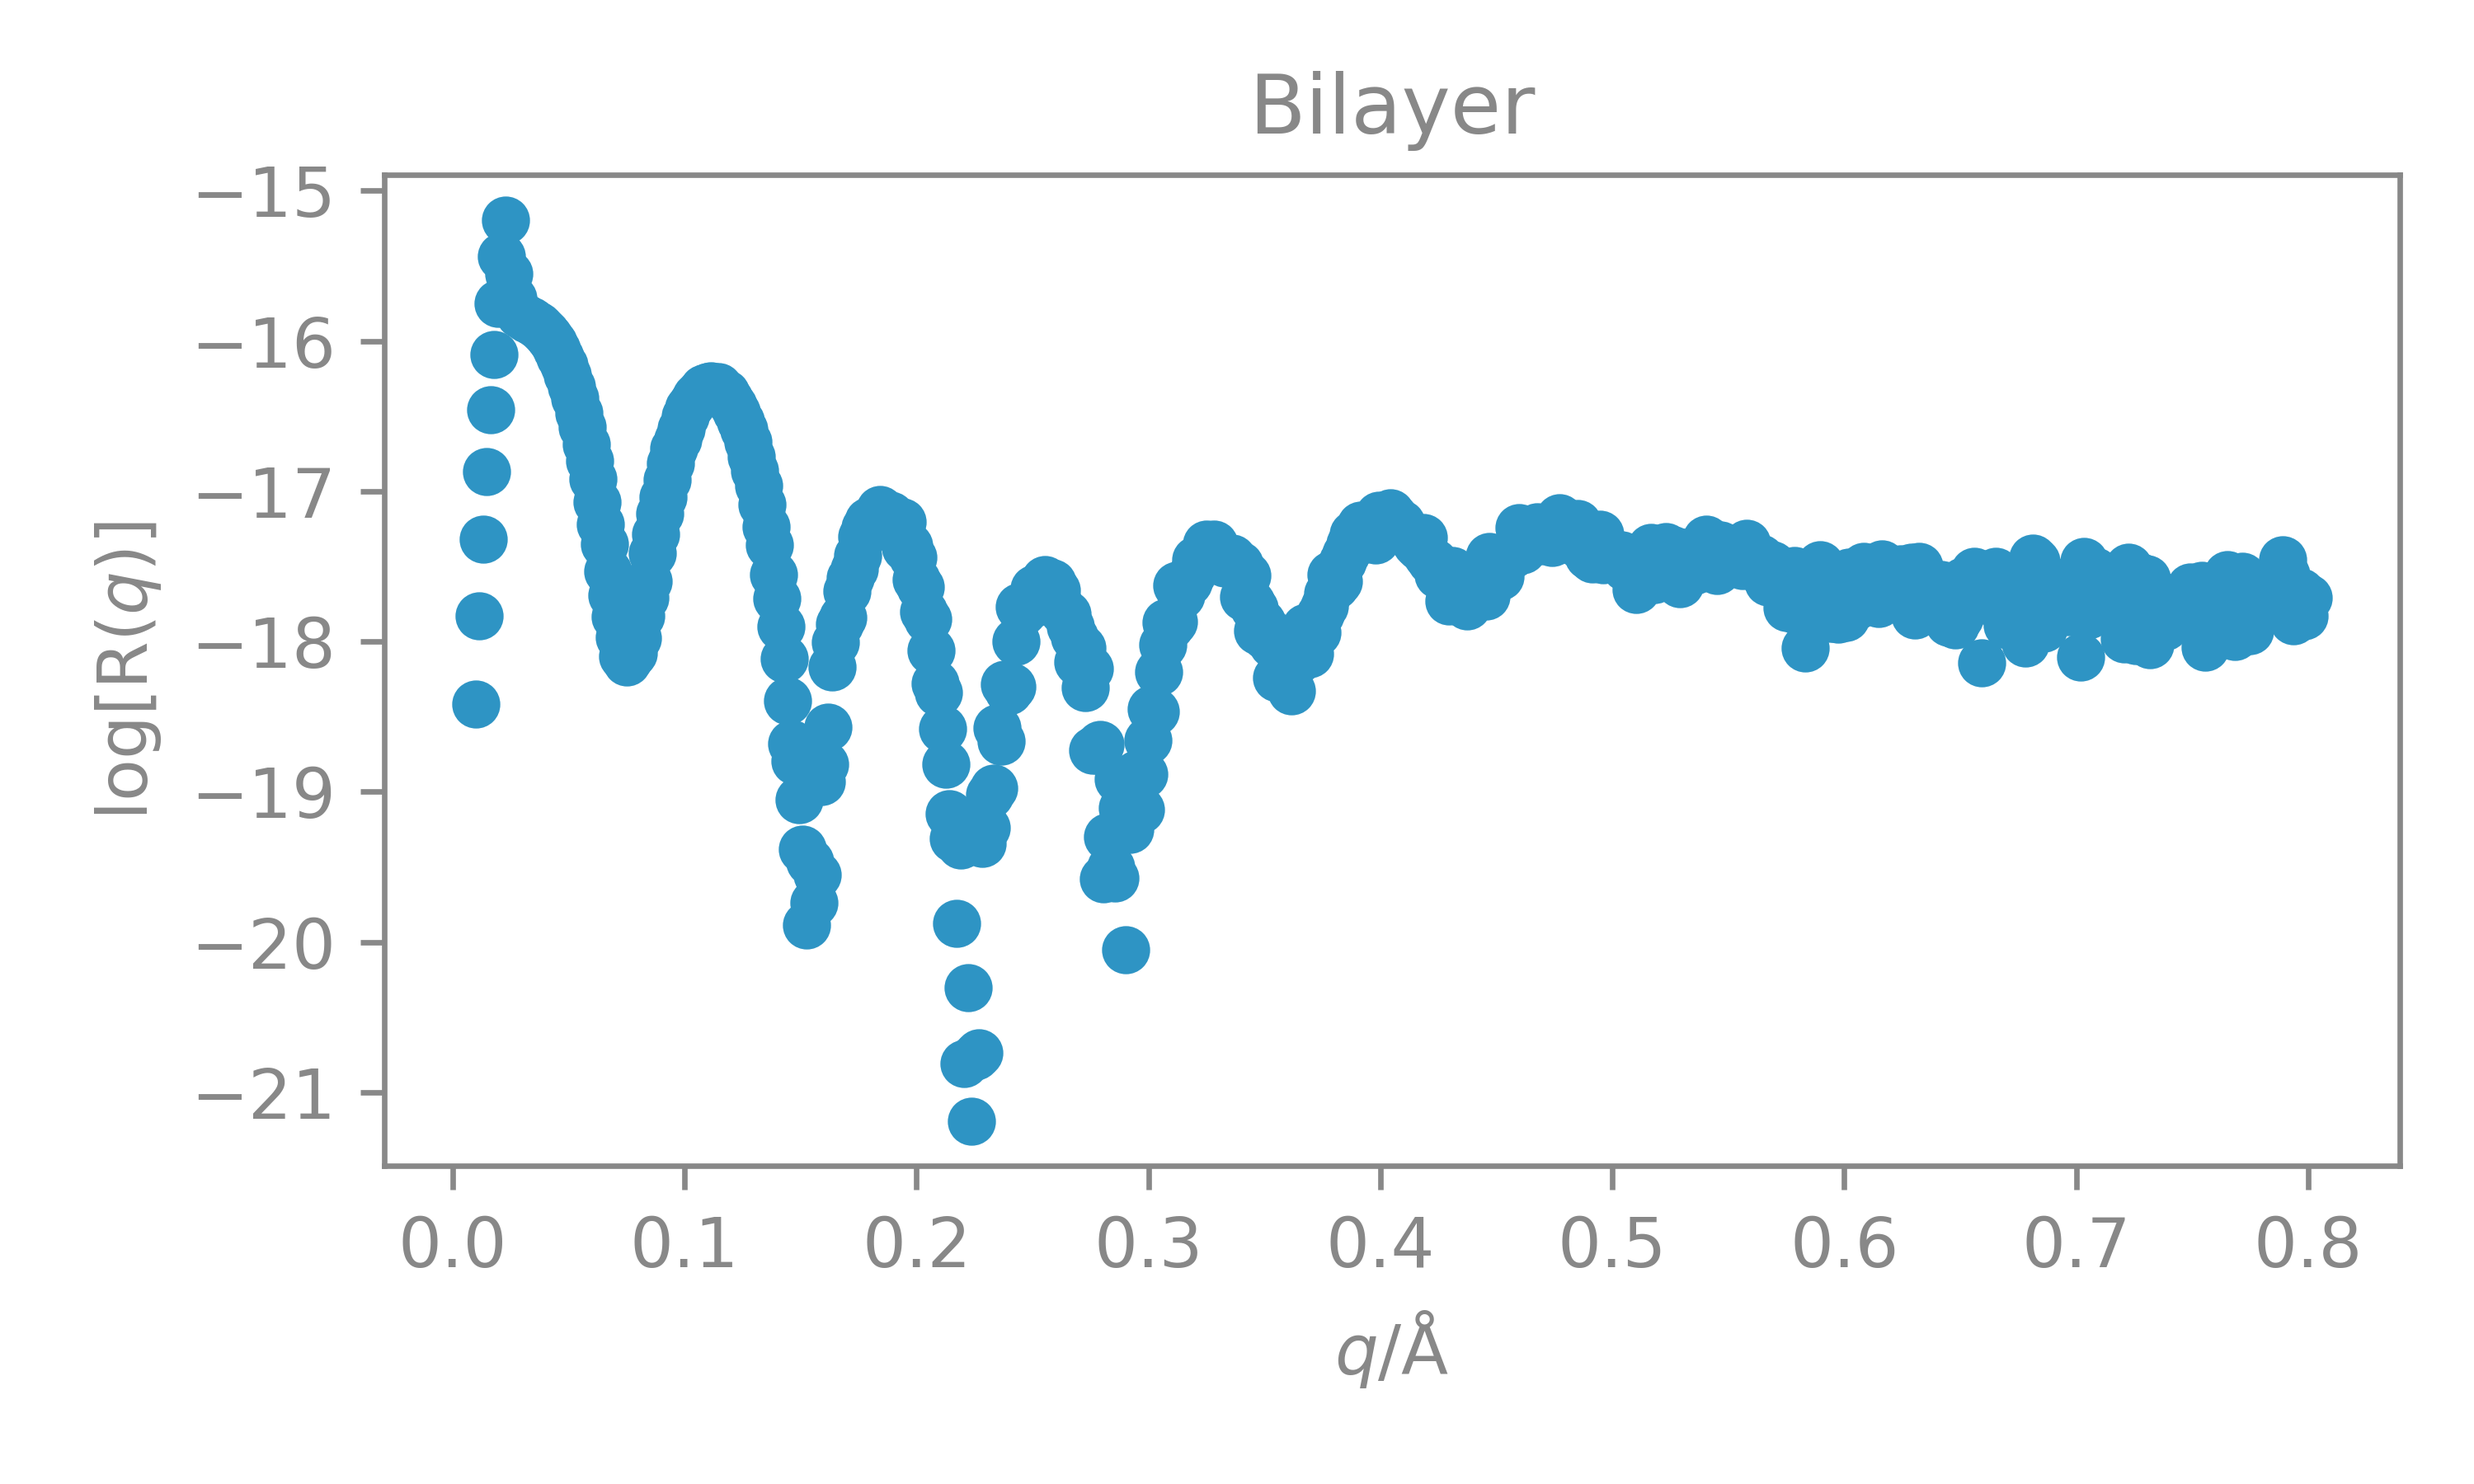
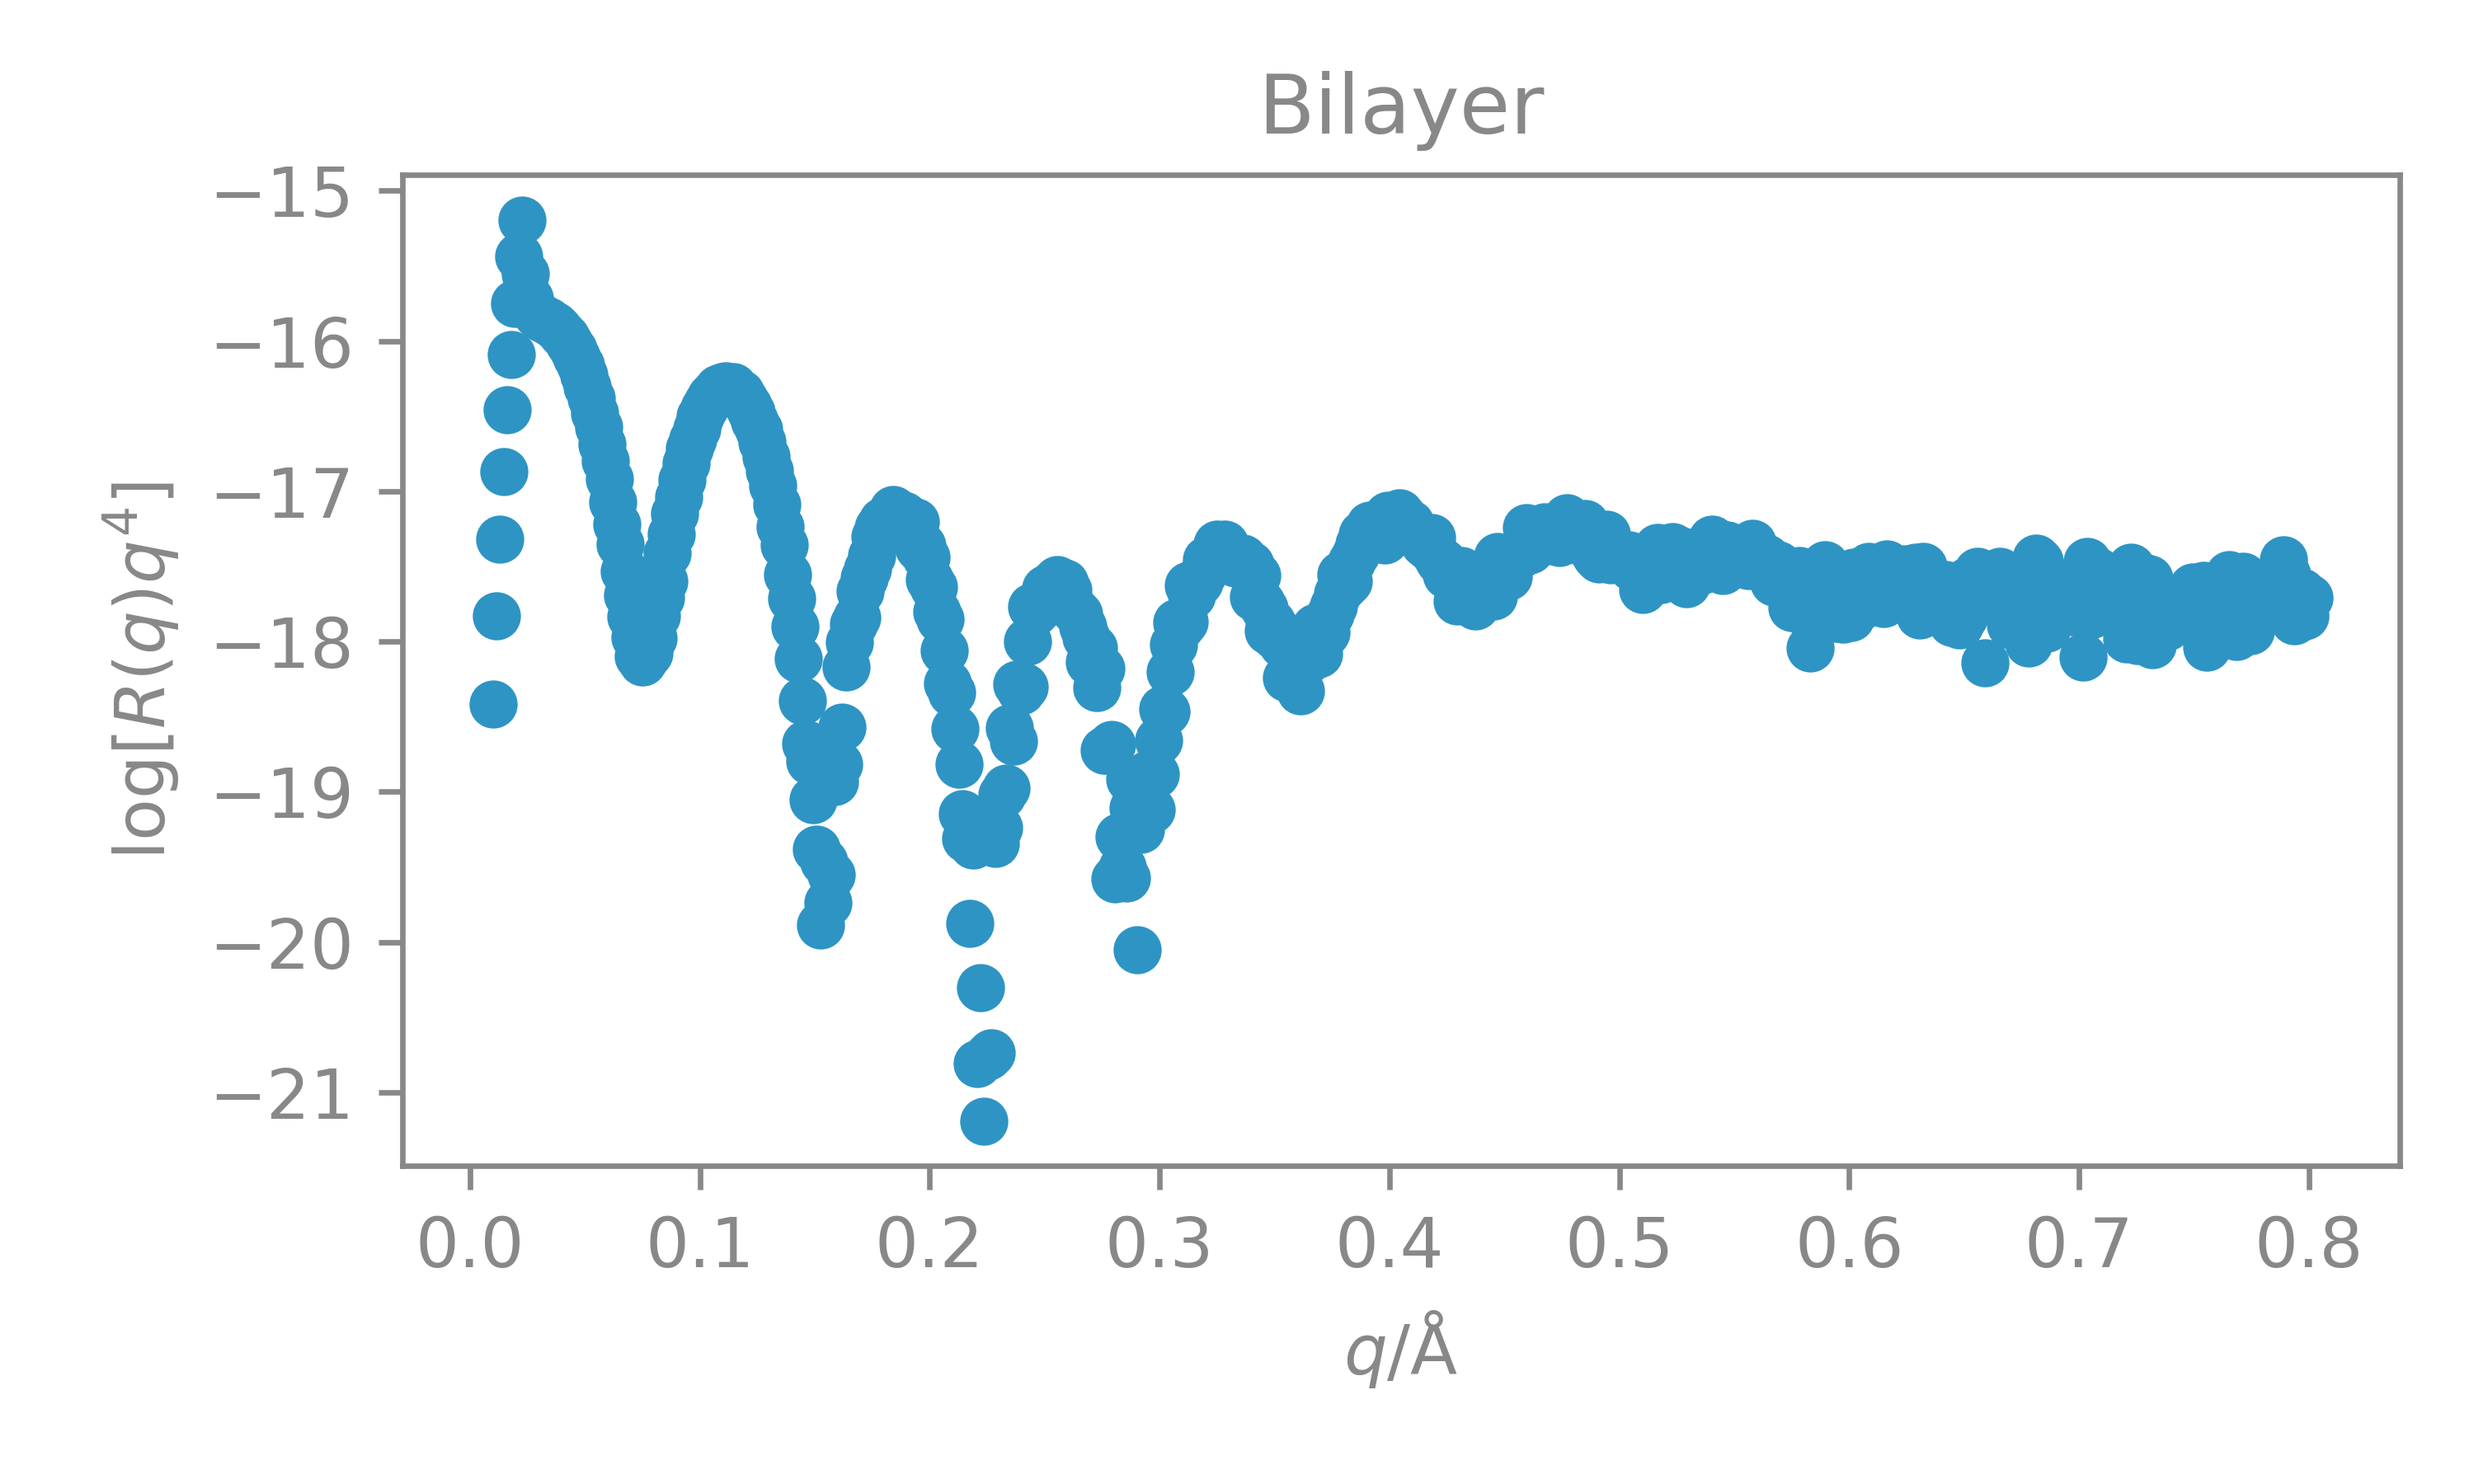
fixs

diff --git a/talks/m4colloids2019/index.html b/talks/m4colloids2019/index.html
@@ -63,8 +63,9 @@
 						<hr>
 						<div class="name"><a href="https://armccluskey.com"><u>Andrew R. McCluskey,</u><sup><small>a,b</small></sup></a> Tim Snow,<sup><small>a,c</small></sup> & Jos F. K. Cooper<sup><small>d</small></sup></div>
 						<div class="label">a. Diamond Light Source; b. University of Bath;<br>c. University of Bristol; d. ISIS Neutron and Muon Source</div>
-						<div class="label"><a href="mailto:andrew.mccluskey@diamond.ac.uk"><i class="fas fa-at social_icon"></i><span> andrew.mccluskey@diamond.ac.uk</span></a></div>
-						<div class="label"><a href="https://twitter.com/an_drewmcc"><i class="fab fa-twitter social_icon"></i><span> an_drewmcc</span></a></div>
+						<div class="label"><a href="mailto:andrew.mccluskey@diamond.ac.uk"><i class="fas fa-at social_icon"></i><span>&nbsp;andrew.mccluskey@diamond.ac.uk</span></a></div>
+						<div class="label"><a href="https://twitter.com/an_drewmcc"><i class="fab fa-twitter social_icon"></i><span>&nbsp;an_drewmcc</span></a></div>
+						<div class="label"><a href="https://armccluskey.com"><i class="fas fa-mars social_icon"></i><span>&nbsp;&nbsp;(he/him)</span></a></div>
 					</div>
 					<a class="presentation-url" href="https://armccluskey.com/talks/m4colloids2019">
 					armccluskey.com/talks/m4colloids2019</a>
@@ -186,10 +187,10 @@
 					<div class="content">
 						<center>
 						<h1>what can we automate?</h1>
-							<li>users bringing the cool science: 🤦<br></li>
-							<li>data reduction: ✅<br></li>
-							<li>data analysis: 🤞<br></li>
-							<li>writing papers: 😔</li>
+							<li>Users bringing the cool science: 🤦<br></li>
+							<li>Data reduction: ✅<br></li>
+							<li>Data analysis: 🤞<br></li>
+							<li>Writing papers: 😔</li>
 					</center>
 					</div>
 				</div>

diff --git a/talks/m4colloids2019/figures/plot_ref.py b/talks/m4colloids2019/figures/plot_ref.py
@@ -18,7 +18,7 @@ for e, i in enumerate(type):
     ax.tick_params(axis='y', colors='#888888')
     plt.plot(x, y, 'o', c='#2e94c4')
     plt.xlabel('$q$/Å')
-    plt.ylabel('log[R($q$)]')
+    plt.ylabel('log[$R(q)q^4$]')
     plt.title('{}'.format(type_nice[e]), c='#888888')
     plt.tight_layout()
     plt.savefig('{}.png'.format(i), dpi=600)
